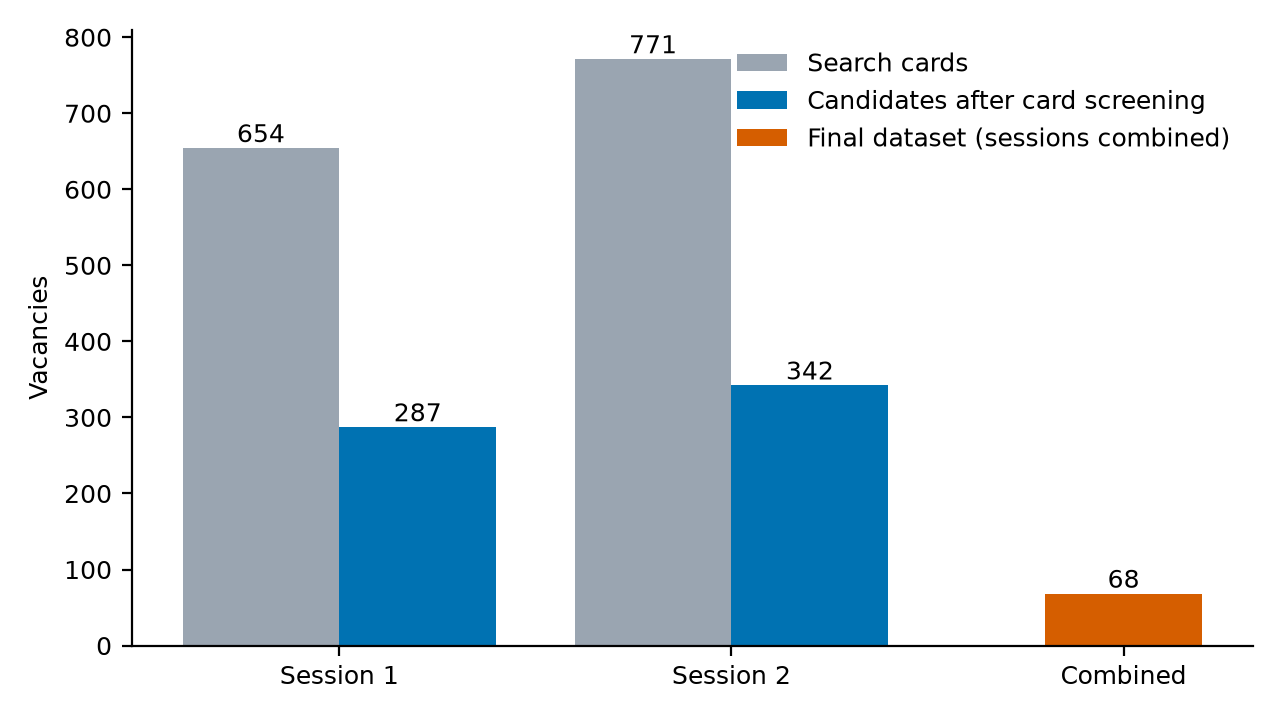
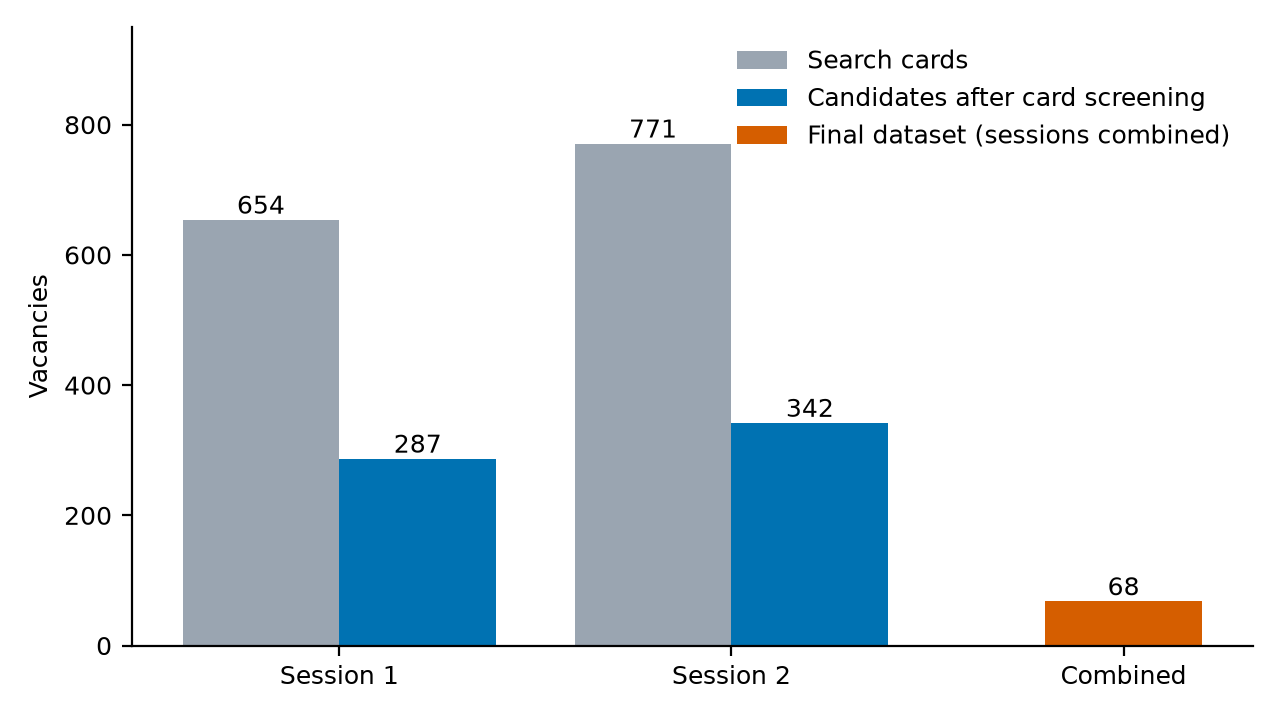
Survey skill mapping for the integration table; figures: fixed clipped labels and legend

diff --git a/code/survey_mapping.py b/code/survey_mapping.py
@@ -1,0 +1,72 @@
+#!/usr/bin/env python3
+"""Vacancy and programme side of the six survey skills (integration table of A4).
+
+    python3 code/survey_mapping.py --full _private/combined_s1-s2/final_dataset_full.csv \
+        --cycles data/processed/programmes/cycles_se.csv data/processed/programmes/cycles_cyber.csv data/processed/programmes/cycles_bda.csv \
+        --out data/processed/analysis_s1-s2/survey_skill_mapping.csv
+
+The mapping of each survey skill to rows of code/skills_dictionary_v1.csv is code/survey_skill_mapping.csv.
+For every skill: D = share of vacancies that mention it (pooled and per programme), C strict / soft = mentioned in the English
+text of mandatory cycles / of any cycle, G = D x (1 - C). Vacancy texts are read from _private/ and only counts are written.
+"""
+import argparse
+import csv
+import os
+import re
+import sys
+
+sys.path.insert(0, os.path.dirname(os.path.abspath(__file__)))
+from coding import load_dictionary  # noqa: E402
+
+HERE = os.path.dirname(os.path.abspath(__file__))
+PROG = {"se": "Software Engineering", "cyber": "Cybersecurity", "bda": "Big Data Analysis"}
+
+
+def read(path):
+    with open(path, encoding="utf-8-sig", newline="") as f:
+        return list(csv.DictReader(f))
+
+
+def main():
+    ap = argparse.ArgumentParser(description=__doc__, formatter_class=argparse.RawDescriptionHelpFormatter)
+    ap.add_argument("--full", required=True)
+    ap.add_argument("--cycles", nargs="+", required=True)
+    ap.add_argument("--out", required=True)
+    a = ap.parse_args()
+    entries = load_dictionary()
+    mapping = read(os.path.join(HERE, "survey_skill_mapping.csv"))
+    vac = read(a.full)
+    cyc = [r for p in a.cycles for r in read(p)]
+    out = []
+    for m in mapping:
+        rows = {tuple(x.split(":", 1)) for x in m["dictionary_rows"].split("|")}
+        rx = [e[2] for e in entries if (str(e[0]), e[1]) in rows]
+        assert rx, m["survey_skill"]
+        hit = lambda text: any(r.search(text) for r in rx)
+        row = {"survey_skill": m["survey_skill"], "taxonomy_category": m["taxonomy_category"]}
+        flags = []
+        for v in vac:
+            text = " \n".join([v["title"], v["key_skills"], v["description"]])
+            flags.append((v["group"], hit(text)))
+        row["D_pooled"] = round(sum(f for _, f in flags) / len(flags), 4)
+        row["n_pooled"] = len(flags)
+        for key, name in PROG.items():
+            g = [f for k, f in flags if k == key]
+            d = sum(g) / len(g)
+            c_rows = [r for r in cyc if r["programme"] == name]
+            strict = int(any(hit(r["text_en"]) for r in c_rows if r["status"] == "mandatory"))
+            soft = int(any(hit(r["text_en"]) for r in c_rows))
+            row.update({f"D_{key}": round(d, 4), f"C_strict_{key}": strict, f"C_soft_{key}": soft,
+                        f"G_strict_{key}": round(d * (1 - strict), 4)})
+        out.append(row)
+    os.makedirs(os.path.dirname(a.out) or ".", exist_ok=True)
+    with open(a.out, "w", encoding="utf-8-sig", newline="") as f:
+        w = csv.DictWriter(f, fieldnames=list(out[0]))
+        w.writeheader()
+        w.writerows(out)
+    for r in out:
+        print(r["survey_skill"], "D pooled", r["D_pooled"], {k: (r[f"D_{k}"], r[f"C_strict_{k}"], r[f"C_soft_{k}"]) for k in PROG})
+
+
+if __name__ == "__main__":
+    main()

diff --git a/code/figures.py b/code/figures.py
@@ -60,7 +60,8 @@ def fig_funnel(sessions, combined, out):
     ax.set_xticks(list(x) + [len(labels)])
     ax.set_xticklabels(labels + ["Combined"])
     ax.set_ylabel("Vacancies")
-    ax.legend(frameon=False)
+    ax.set_ylim(0, 950)
+    ax.legend(frameon=False, loc="upper right")
     save(fig, out, "A4_Fig01_selection_funnel.png")
 
 
@@ -135,7 +136,7 @@ def fig_u(an, out):
 
 def fig_gaps(an, out):
     g = read(os.path.join(an, "G.csv"))
-    fig, axes = plt.subplots(1, 3, figsize=(10, 3.8), sharex=True)
+    fig, axes = plt.subplots(1, 3, figsize=(13, 3.8), sharex=True)
     for ax, k in zip(axes, KEYS):
         rows = sorted([r for r in g if r["programme"] == k], key=lambda r: -float(r["G_strict"]))[:8]
         ax.barh([SHORT[int(r["category_id"])] for r in rows][::-1], [float(r["G_strict"]) for r in rows][::-1], color=COLOR[k])
@@ -146,13 +147,13 @@ def fig_gaps(an, out):
 
 def fig_stability(an, out):
     s = read(os.path.join(an, "rank_stability.csv"))
-    fig, axes = plt.subplots(1, 3, figsize=(10, 3.8), sharex=True)
+    fig, axes = plt.subplots(1, 3, figsize=(13, 3.8), sharex=True)
     for ax, k in zip(axes, KEYS):
         rows = sorted([r for r in s if r["programme"] == k], key=lambda r: -float(r["top3_frequency"]))[:6]
         ax.barh([SHORT[int(r["category_id"])] for r in rows][::-1], [float(r["top3_frequency"]) for r in rows][::-1], color=COLOR[k])
         ax.set_xlim(0, 1)
         ax.set_title(LABEL[k], fontsize=9)
-        ax.set_xlabel("Share of 2000 bootstrap samples in top-3 by G_c")
+        ax.set_xlabel("Share of bootstrap samples with\nthe category in top-3 by G_c")
     save(fig, out, "A4_Fig07_ranking_stability.png")
 
 
